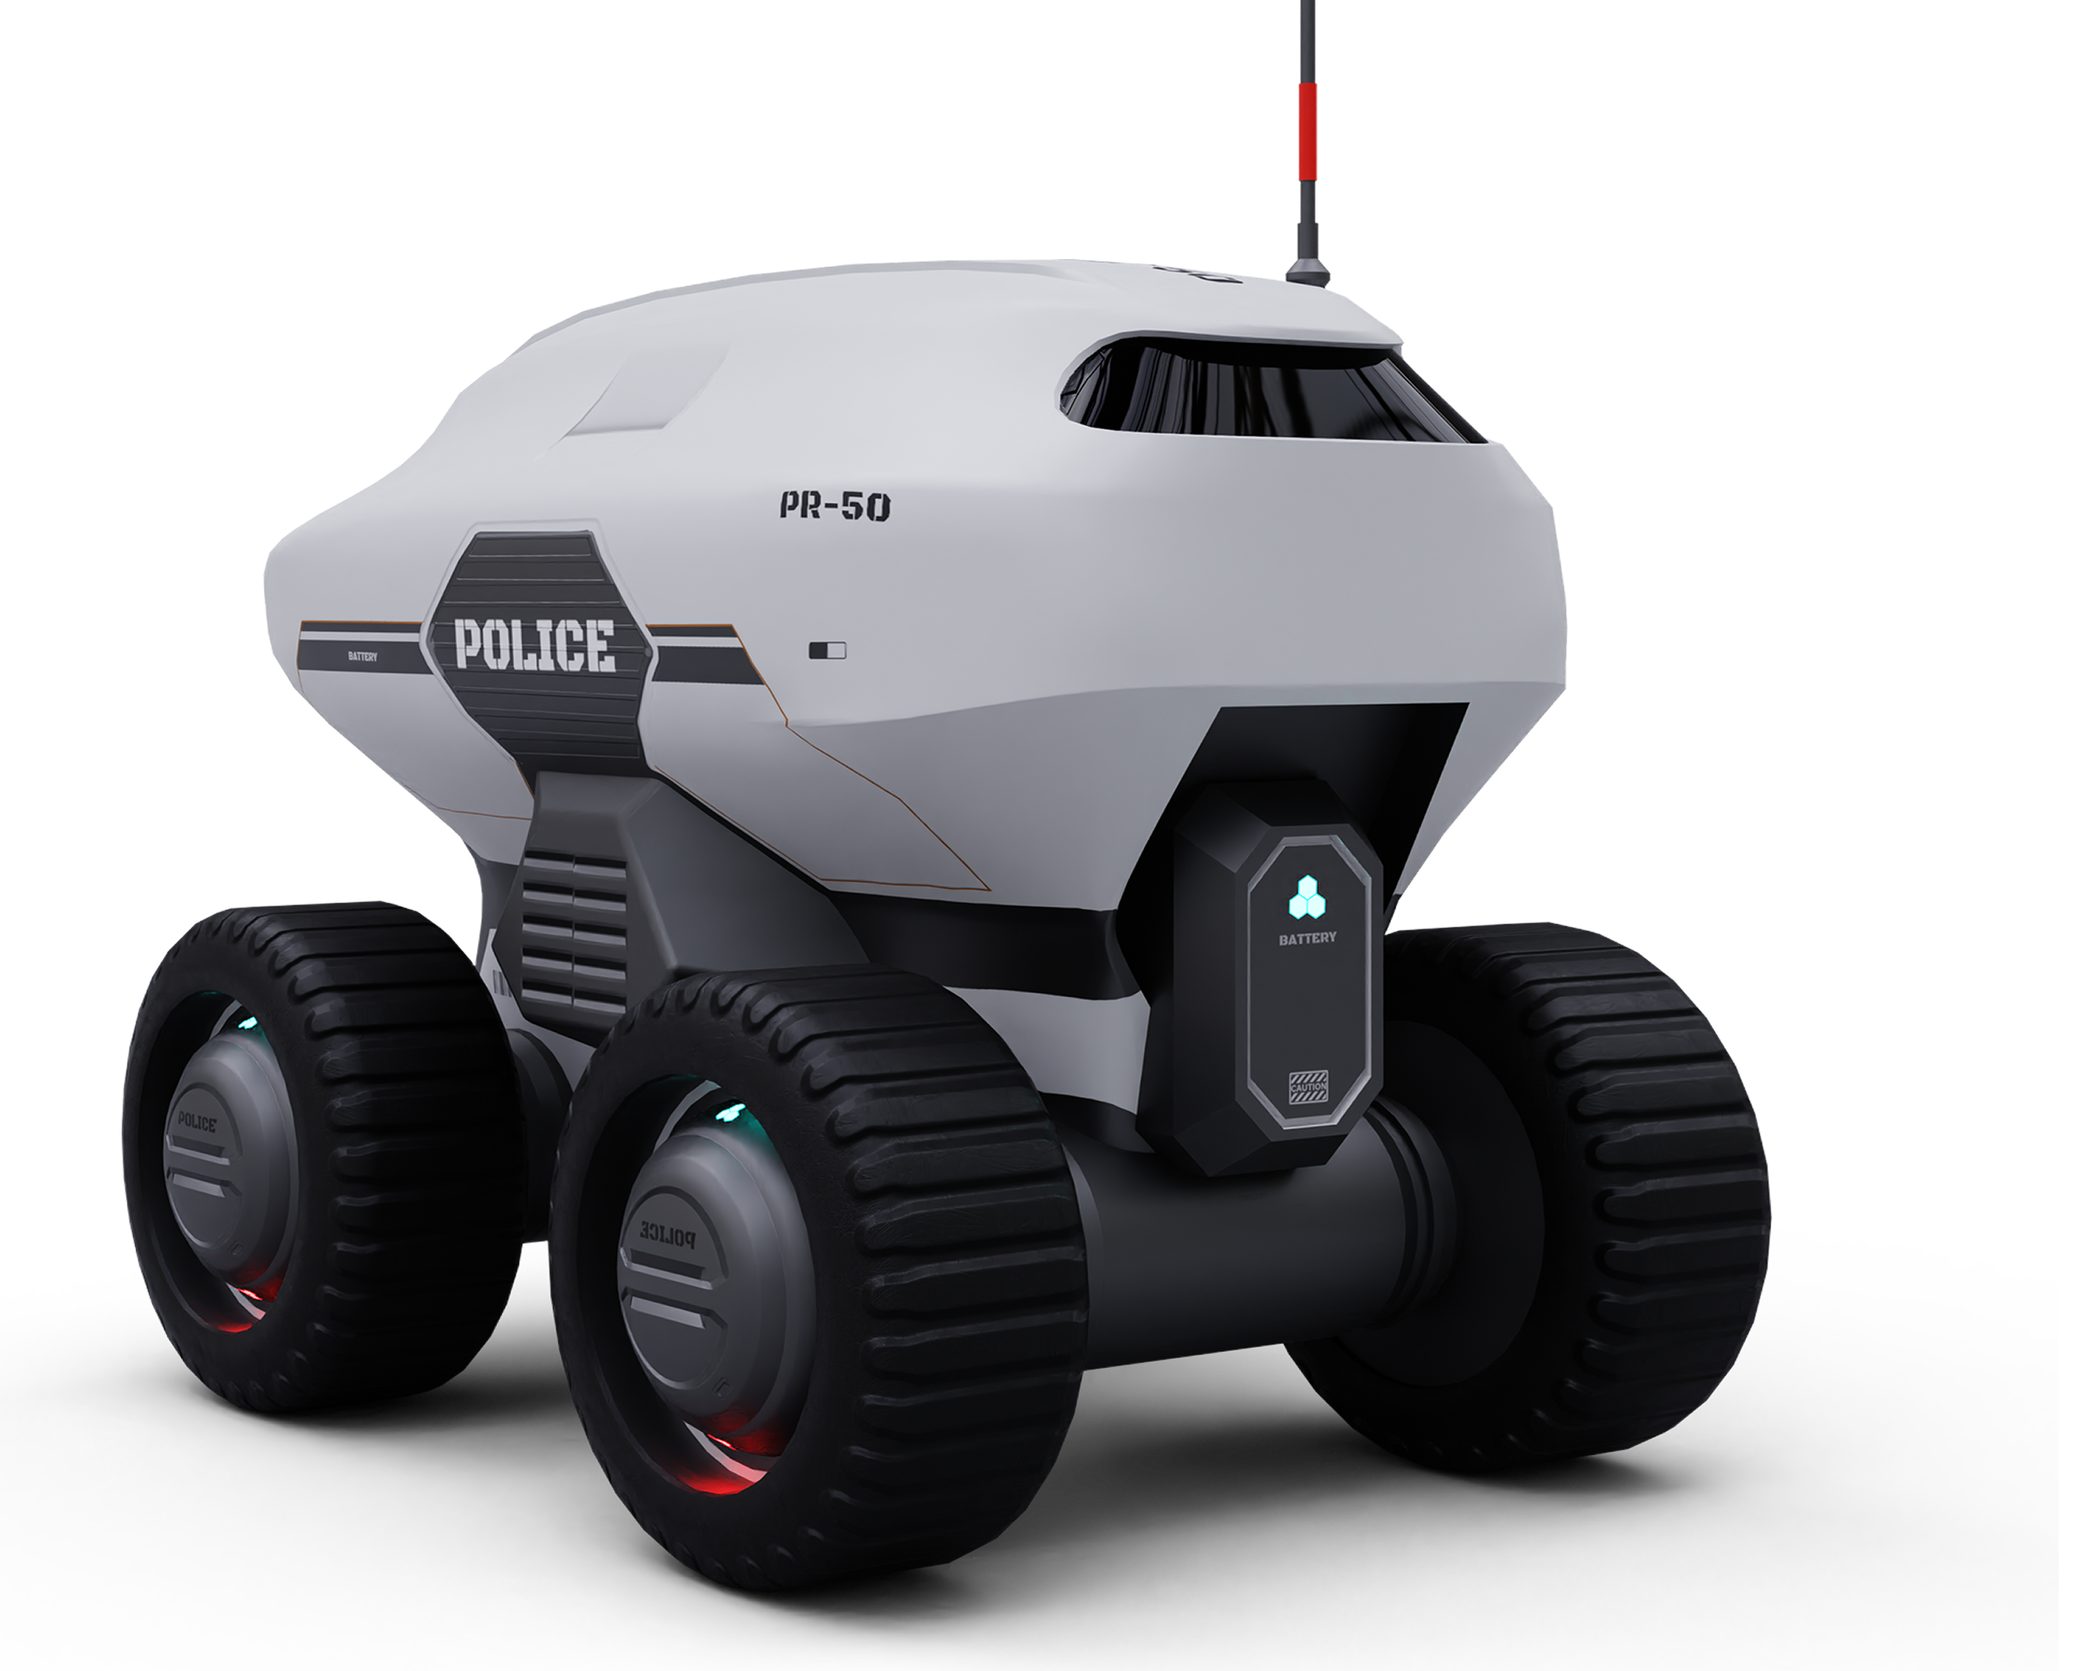
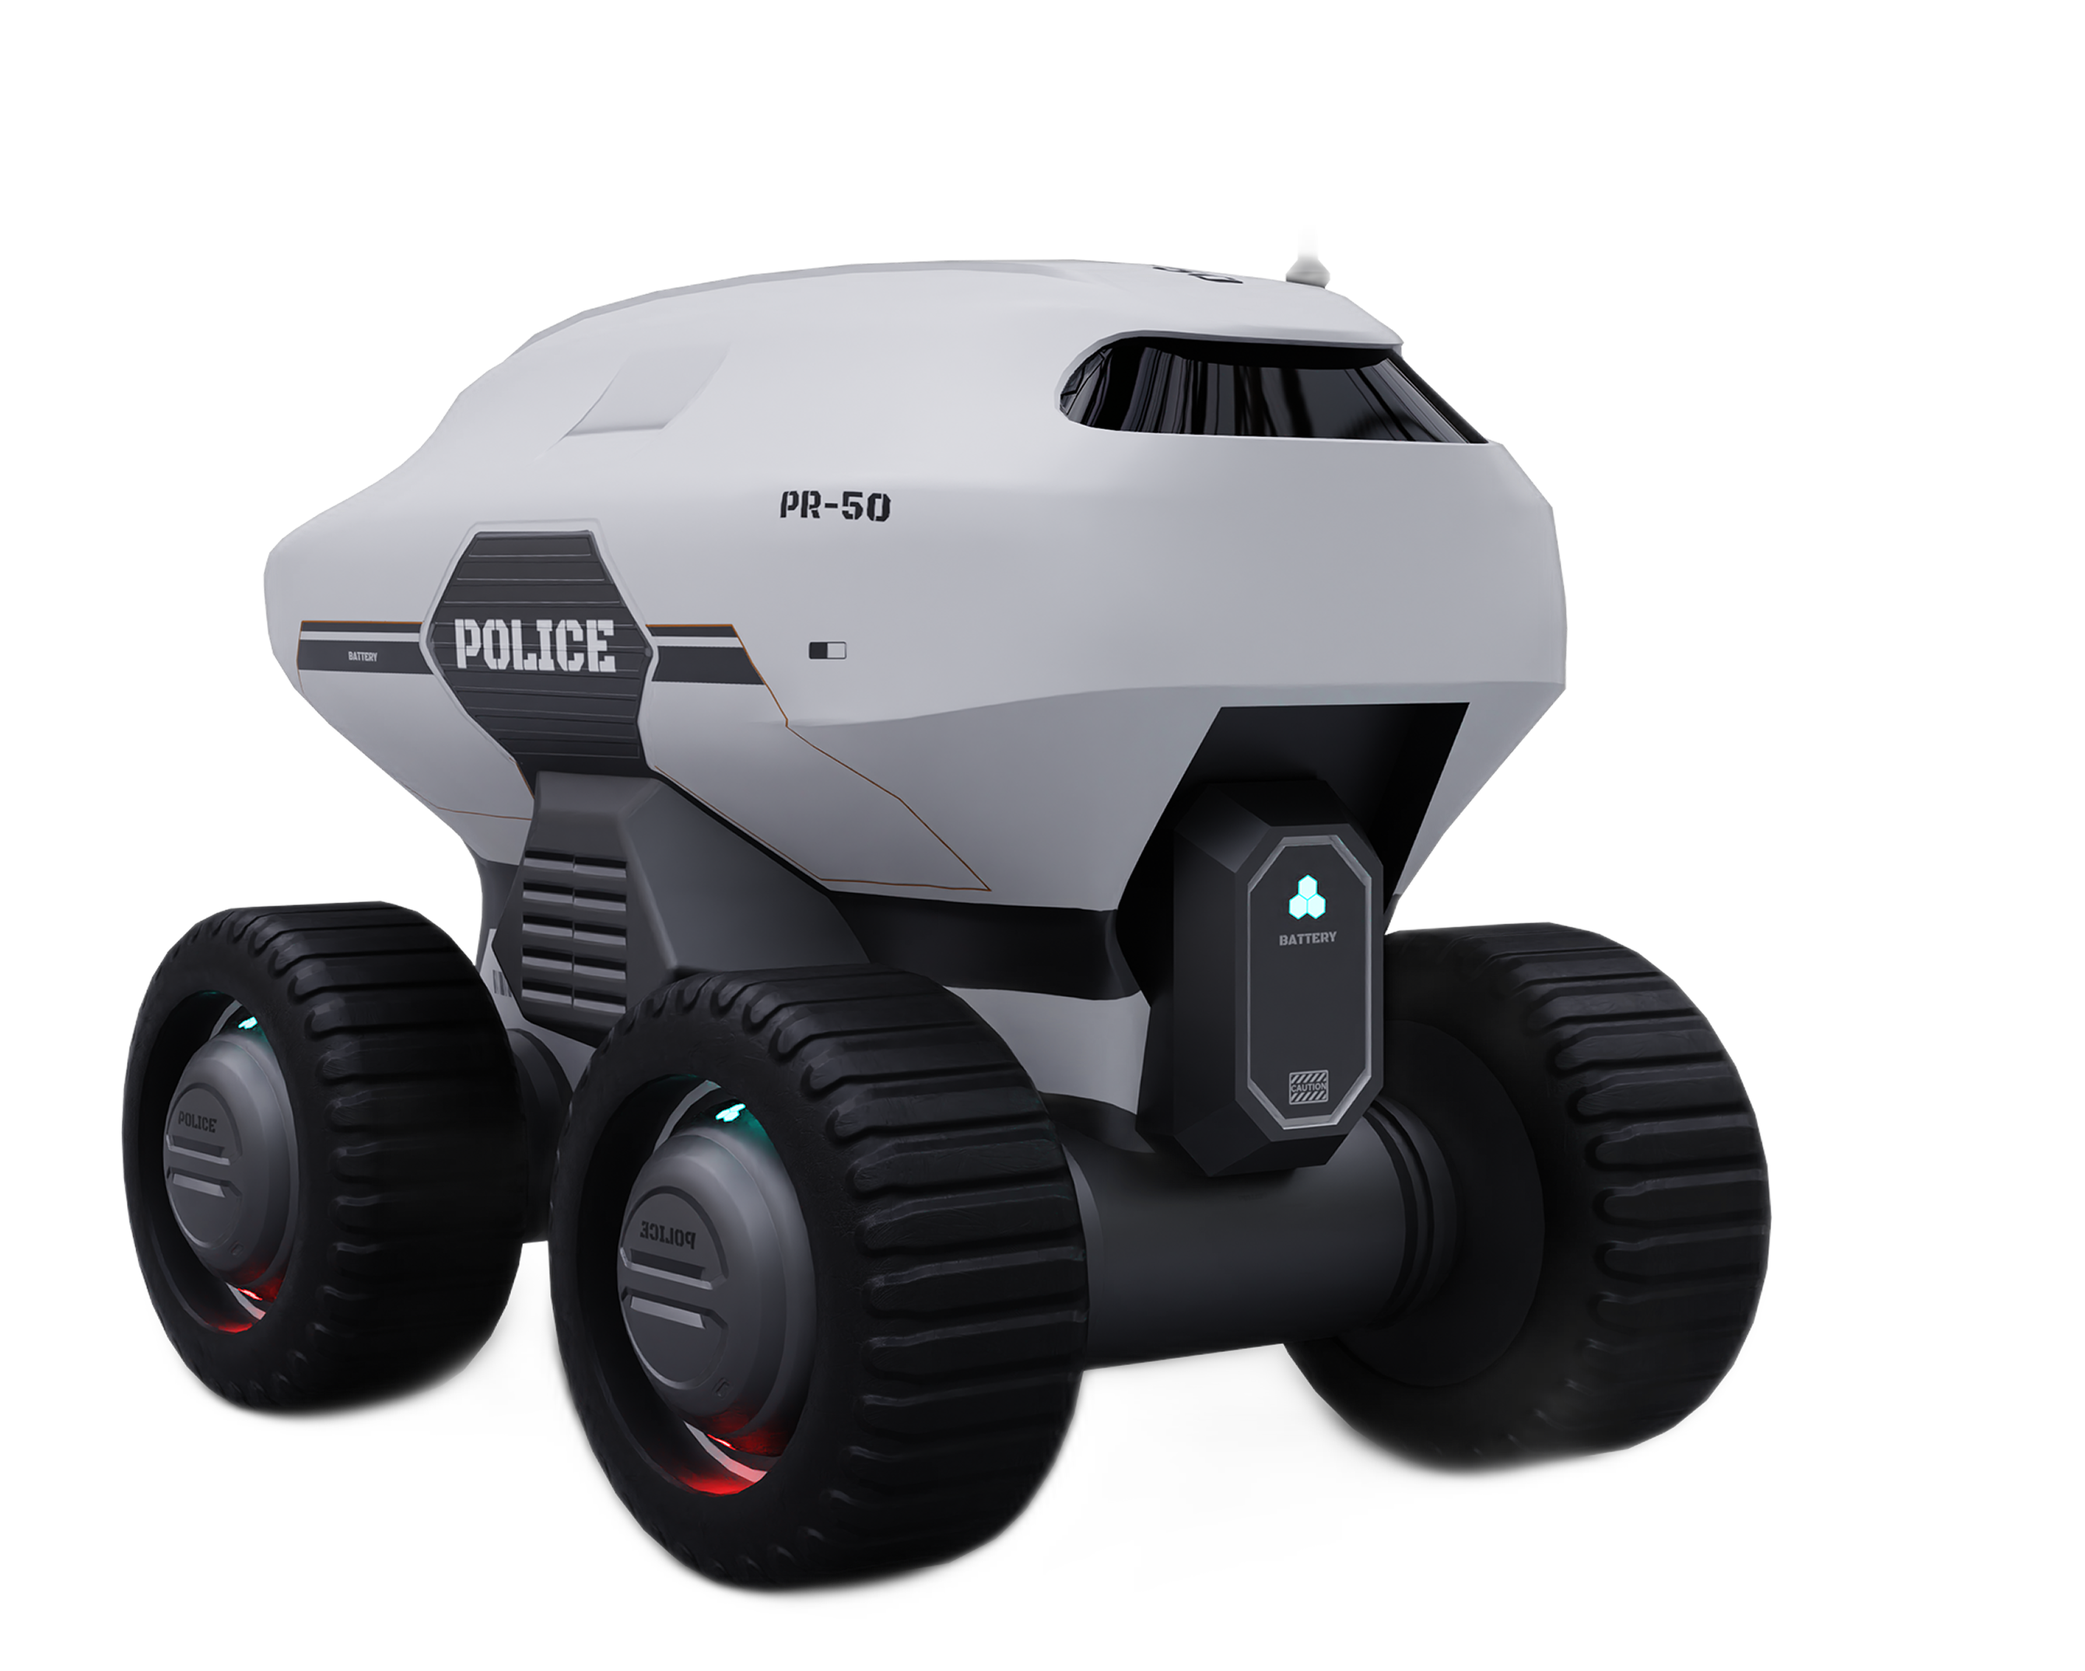
fix(images): remove baked-in backgrounds and implement multi-layer ground shadows

Changed region(s): [[0.031, 0.7798, 0.8672, 0.9981], [0.6194, 0.0, 0.6504, 0.1872]]

diff --git a/components/Hero.tsx b/components/Hero.tsx
@@ -7,10 +7,8 @@ const HOTSPOTS = [
   {
     id: "car",
     label: "Police Robotic Car",
-    // Position of the badge (% from top-left)
     badgeX: 23,
     badgeY: 38,
-    // Target dot on the vehicle (% from top-left)
     targetX: 32,
     targetY: 42,
     detail: "Purpose-built patrol platform for city streets.",
@@ -151,20 +149,39 @@ export default function Hero() {
         ))}
       </h1>
 
-      {/* Center Robot Hero Image */}
+      {/* Center Robot Hero Container */}
       <div
         ref={robot}
-        className="absolute inset-x-0 bottom-[10%] top-[12%] z-10 flex items-center justify-center pointer-events-none"
+        className="absolute inset-x-0 bottom-[12%] top-[14%] z-10 flex flex-col items-center justify-end pointer-events-none"
       >
-        {/* Soft ground shadow */}
-        <div className="absolute bottom-[2%] left-1/2 -translate-x-1/2 w-[72%] max-w-[850px] h-20 bg-black/25 blur-3xl rounded-full" />
+        <div className="relative flex flex-col items-center justify-end h-full w-full max-w-[1100px]">
+          {/* eslint-disable-next-line @next/next/no-img-element */}
+          <img
+            src="/images/hero-robot.png"
+            alt="Nuro PR-50 autonomous patrol robot"
+            className="relative z-10 h-auto max-h-[82%] w-auto max-w-[92%] object-contain"
+          />
 
-        {/* eslint-disable-next-line @next/next/no-img-element */}
-        <img
-          src="/images/hero-robot.png"
-          alt="Nuro PR-50 autonomous patrol robot"
-          className="relative z-10 h-auto max-h-[82%] w-auto max-w-[92%] object-contain drop-shadow-[0_20px_40px_rgba(0,0,0,0.18)]"
-        />
+          {/* Realistic Multi-Layer Automotive Ground Shadow */}
+          <div className="relative -mt-6 sm:-mt-8 md:-mt-10 w-[78%] max-w-[820px] h-14 pointer-events-none">
+            {/* 1. Deep Contact Shadows under Tires */}
+            {/* Left Front Tire */}
+            <div className="absolute left-[18%] bottom-3 w-32 h-6 bg-black/85 rounded-full blur-[4px]" />
+            {/* Center-Right Front Tire */}
+            <div className="absolute left-[44%] bottom-2 w-32 h-6 bg-black/85 rounded-full blur-[4px]" />
+            {/* Far Right Tire */}
+            <div className="absolute right-[14%] bottom-4 w-32 h-6 bg-black/75 rounded-full blur-[5px]" />
+            {/* Far Left Rear Tire */}
+            <div className="absolute left-[6%] bottom-5 w-24 h-5 bg-black/60 rounded-full blur-[5px]" />
+
+            {/* 2. Undercarriage Ambient Occlusion (Dark core under chassis) */}
+            <div className="absolute left-1/2 -translate-x-1/2 bottom-2 w-[70%] h-8 bg-black/75 rounded-full blur-[10px]" />
+
+            {/* 3. Soft Diffused Ambient Ground Shadow */}
+            <div className="absolute left-1/2 -translate-x-1/2 -bottom-2 w-[100%] h-14 bg-black/35 rounded-full blur-2xl" />
+            <div className="absolute left-1/2 -translate-x-1/2 -bottom-4 w-[115%] h-20 bg-black/20 rounded-full blur-3xl" />
+          </div>
+        </div>
       </div>
 
       {/* Hotspots & Leader Lines (Desktop / Tablet) */}
@@ -174,7 +191,6 @@ export default function Hero() {
             const isHovered = active === h.id;
             return (
               <g key={`line-${h.id}`}>
-                {/* Pointer line */}
                 <line
                   x1={`${h.badgeX}%`}
                   y1={`${h.badgeY}%`}
@@ -184,7 +200,6 @@ export default function Hero() {
                   strokeWidth="1.2"
                   strokeDasharray={isHovered ? "none" : "2 2"}
                 />
-                {/* Dot on vehicle */}
                 <circle
                   cx={`${h.targetX}%`}
                   cy={`${h.targetY}%`}
@@ -220,7 +235,6 @@ export default function Hero() {
                   </span>
                 </div>
 
-                {/* Popover detail tooltip */}
                 <div
                   className={`absolute left-1/2 -translate-x-1/2 top-full mt-2 w-52 rounded-xl bg-white/95 p-3 text-left text-[11px] leading-relaxed text-[#1B1B1F]/80 shadow-xl border border-black/5 backdrop-blur-md pointer-events-none transition-all duration-200 ${
                     isHovered ? "opacity-100 translate-y-0" : "opacity-0 -translate-y-1"

diff --git a/components/About.tsx b/components/About.tsx
@@ -34,17 +34,32 @@ export default function About() {
       className="mx-auto max-w-[1440px] px-6 py-24 md:px-12 md:py-36 bg-white"
     >
       <div className="grid grid-cols-1 md:grid-cols-2 gap-12 md:gap-16 items-center">
-        {/* Left Image Card */}
+        {/* Left Image Card with Custom Automotive Ground Shadow */}
         <div
           data-about-card
-          className="relative aspect-[4/3] rounded-3xl bg-[#ECECEF] p-8 md:p-12 flex items-center justify-center overflow-hidden"
+          className="relative aspect-[4/3] rounded-3xl bg-[#ECECEF] p-8 md:p-12 flex flex-col items-center justify-center overflow-hidden"
         >
-          {/* eslint-disable-next-line @next/next/no-img-element */}
-          <img
-            src="/images/about-robot.png"
-            alt="Nuro autonomous patrol robot in studio setting"
-            className="h-full w-full object-contain drop-shadow-[0_16px_32px_rgba(0,0,0,0.12)]"
-          />
+          <div className="relative w-full max-w-[460px] flex flex-col items-center justify-center">
+            {/* eslint-disable-next-line @next/next/no-img-element */}
+            <img
+              src="/images/about-robot.png"
+              alt="Nuro autonomous patrol robot in studio setting"
+              className="relative z-10 w-full object-contain"
+            />
+
+            {/* Custom Manual Ground Shadow */}
+            <div className="relative -mt-6 sm:-mt-8 w-[82%] h-10 pointer-events-none">
+              {/* Left Wheels Contact */}
+              <div className="absolute left-[14%] bottom-2 w-24 h-4 bg-black/85 rounded-full blur-[3px]" />
+              {/* Right Wheels Contact */}
+              <div className="absolute right-[14%] bottom-2 w-24 h-4 bg-black/85 rounded-full blur-[3px]" />
+              {/* Core Undercarriage Shadow */}
+              <div className="absolute left-1/2 -translate-x-1/2 bottom-1 w-[75%] h-6 bg-black/75 rounded-full blur-[7px]" />
+              {/* Ambient Floor Shadow Spread */}
+              <div className="absolute left-1/2 -translate-x-1/2 -bottom-2 w-[105%] h-10 bg-black/25 rounded-full blur-xl" />
+              <div className="absolute left-1/2 -translate-x-1/2 -bottom-3 w-[120%] h-14 bg-black/15 rounded-full blur-2xl" />
+            </div>
+          </div>
         </div>
 
         {/* Right Editorial Copy */}

diff --git a/components/Showcase.tsx b/components/Showcase.tsx
@@ -50,17 +50,32 @@ export default function Showcase() {
 
       <h2 className="sr-only">Nuro PR-50 Front Showcase</h2>
 
-      {/* Center robot front view */}
+      {/* Center robot front view with realistic ground shadow */}
       <div
         ref={robot}
-        className="relative z-10 flex h-[78%] w-auto max-w-[92%] items-center justify-center pointer-events-none"
+        className="relative z-10 flex flex-col items-center justify-end h-[78%] w-auto max-w-[92%] pointer-events-none"
       >
-        {/* eslint-disable-next-line @next/next/no-img-element */}
-        <img
-          src="/images/showcase-robot.png"
-          alt="Front view of the Nuro PR-50 autonomous robot vehicle"
-          className="h-full w-auto max-w-none object-contain drop-shadow-[0_24px_50px_rgba(0,0,0,0.12)]"
-        />
+        <div className="relative flex flex-col items-center justify-end h-full">
+          {/* eslint-disable-next-line @next/next/no-img-element */}
+          <img
+            src="/images/showcase-robot.png"
+            alt="Front view of the Nuro PR-50 autonomous robot vehicle"
+            className="relative z-10 h-full w-auto max-w-none object-contain"
+          />
+
+          {/* Symmetrical Automotive Ground Shadow for Front View */}
+          <div className="relative -mt-6 sm:-mt-8 md:-mt-10 w-[72%] max-w-[560px] h-12 pointer-events-none">
+            {/* Left Front Tire Contact Shadow */}
+            <div className="absolute left-[8%] bottom-2 w-28 h-5 bg-black/90 rounded-full blur-[3px]" />
+            {/* Right Front Tire Contact Shadow */}
+            <div className="absolute right-[8%] bottom-2 w-28 h-5 bg-black/90 rounded-full blur-[3px]" />
+            {/* Central Undercarriage Ambient Occlusion */}
+            <div className="absolute left-1/2 -translate-x-1/2 bottom-1 w-[80%] h-8 bg-black/75 rounded-full blur-[8px]" />
+            {/* Soft Ambient Ground Spread */}
+            <div className="absolute left-1/2 -translate-x-1/2 -bottom-2 w-[110%] h-12 bg-black/30 rounded-full blur-2xl" />
+            <div className="absolute left-1/2 -translate-x-1/2 -bottom-4 w-[130%] h-16 bg-black/15 rounded-full blur-3xl" />
+          </div>
+        </div>
       </div>
     </section>
   );

diff --git a/components/Cta.tsx b/components/Cta.tsx
@@ -51,17 +51,31 @@ export default function Cta() {
           </a>
         </div>
 
-        {/* Right Robot Image */}
+        {/* Right Robot Image with Custom Ground Shadow */}
         <div
           ref={botRef}
-          className="relative flex items-center justify-center md:justify-end h-full w-full pointer-events-none"
+          className="relative flex flex-col items-center justify-center md:items-end h-full w-full pointer-events-none"
         >
-          {/* eslint-disable-next-line @next/next/no-img-element */}
-          <img
-            src="/images/cta-robot.png"
-            alt="Nuro autonomous vehicle ready for integration"
-            className="w-full max-w-[460px] md:max-w-[540px] object-contain drop-shadow-[0_20px_35px_rgba(0,0,0,0.14)]"
-          />
+          <div className="relative w-full max-w-[460px] md:max-w-[520px] flex flex-col items-center md:items-end">
+            {/* eslint-disable-next-line @next/next/no-img-element */}
+            <img
+              src="/images/cta-robot.png"
+              alt="Nuro autonomous vehicle ready for integration"
+              className="relative z-10 w-full object-contain"
+            />
+
+            {/* Custom Automotive Ground Shadow */}
+            <div className="relative -mt-6 sm:-mt-8 md:-mt-10 w-[85%] h-12 pointer-events-none">
+              {/* Tires Contact */}
+              <div className="absolute left-[16%] bottom-2 w-28 h-5 bg-black/85 rounded-full blur-[3px]" />
+              <div className="absolute right-[16%] bottom-2 w-28 h-5 bg-black/85 rounded-full blur-[3px]" />
+              {/* Undercarriage Ambient Occlusion */}
+              <div className="absolute left-1/2 -translate-x-1/2 bottom-1 w-[80%] h-8 bg-black/75 rounded-full blur-[8px]" />
+              {/* Diffused Floor Shadow */}
+              <div className="absolute left-1/2 -translate-x-1/2 -bottom-2 w-[110%] h-12 bg-black/25 rounded-full blur-xl" />
+              <div className="absolute left-1/2 -translate-x-1/2 -bottom-4 w-[125%] h-16 bg-black/15 rounded-full blur-2xl" />
+            </div>
+          </div>
         </div>
       </div>
     </section>

diff --git a/components/Fleet.tsx b/components/Fleet.tsx
@@ -78,15 +78,28 @@ export default function Fleet() {
           />
         </div>
 
-        {/* Center Active Vehicle */}
-        <div className="relative z-10 w-[70%] sm:w-[50%] max-w-[720px] transition-transform duration-500">
-          {/* eslint-disable-next-line @next/next/no-img-element */}
-          <img
-            key={FLEET[index].name}
-            src={FLEET[index].img}
-            alt={FLEET[index].name}
-            className="w-full object-contain drop-shadow-[0_24px_48px_rgba(0,0,0,0.6)] animate-in fade-in zoom-in-95 duration-500"
-          />
+        {/* Center Active Vehicle with Custom Ground Shadow */}
+        <div className="relative z-10 w-[70%] sm:w-[50%] max-w-[720px] flex flex-col items-center justify-center transition-transform duration-500">
+          <div className="relative w-full flex flex-col items-center">
+            {/* eslint-disable-next-line @next/next/no-img-element */}
+            <img
+              key={FLEET[index].name}
+              src={FLEET[index].img}
+              alt={FLEET[index].name}
+              className="relative z-10 w-full object-contain animate-in fade-in zoom-in-95 duration-500"
+            />
+
+            {/* Realistic Dark Studio Ground Shadow */}
+            <div className="relative -mt-6 sm:-mt-8 md:-mt-10 w-[85%] max-w-[580px] h-12 pointer-events-none">
+              {/* Deep tire contact patches */}
+              <div className="absolute left-[12%] bottom-2 w-28 h-5 bg-black rounded-full blur-[3px]" />
+              <div className="absolute right-[12%] bottom-2 w-28 h-5 bg-black rounded-full blur-[3px]" />
+              {/* Central undercarriage ambient occlusion */}
+              <div className="absolute left-1/2 -translate-x-1/2 bottom-1 w-[80%] h-8 bg-black rounded-full blur-[8px]" />
+              {/* Soft ambient ground spread */}
+              <div className="absolute left-1/2 -translate-x-1/2 -bottom-2 w-[110%] h-14 bg-black/60 rounded-full blur-2xl" />
+            </div>
+          </div>
         </div>
 
         {/* Right Dimmed Flanking Vehicle */}
